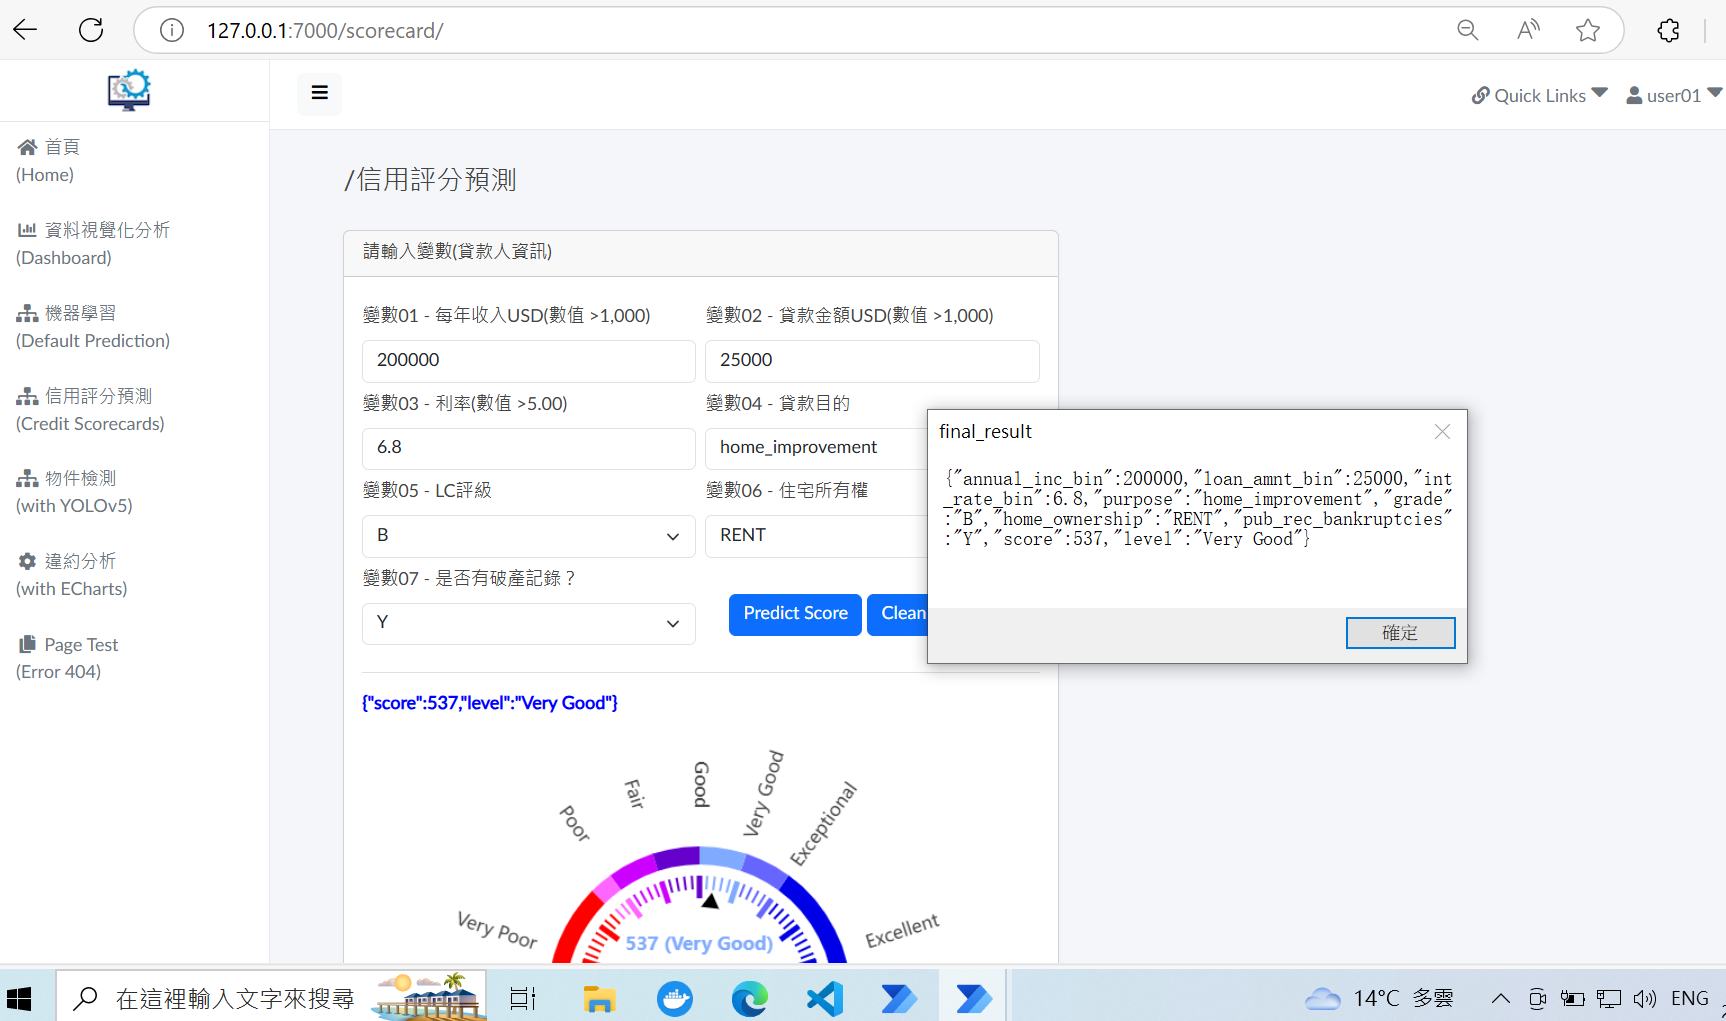
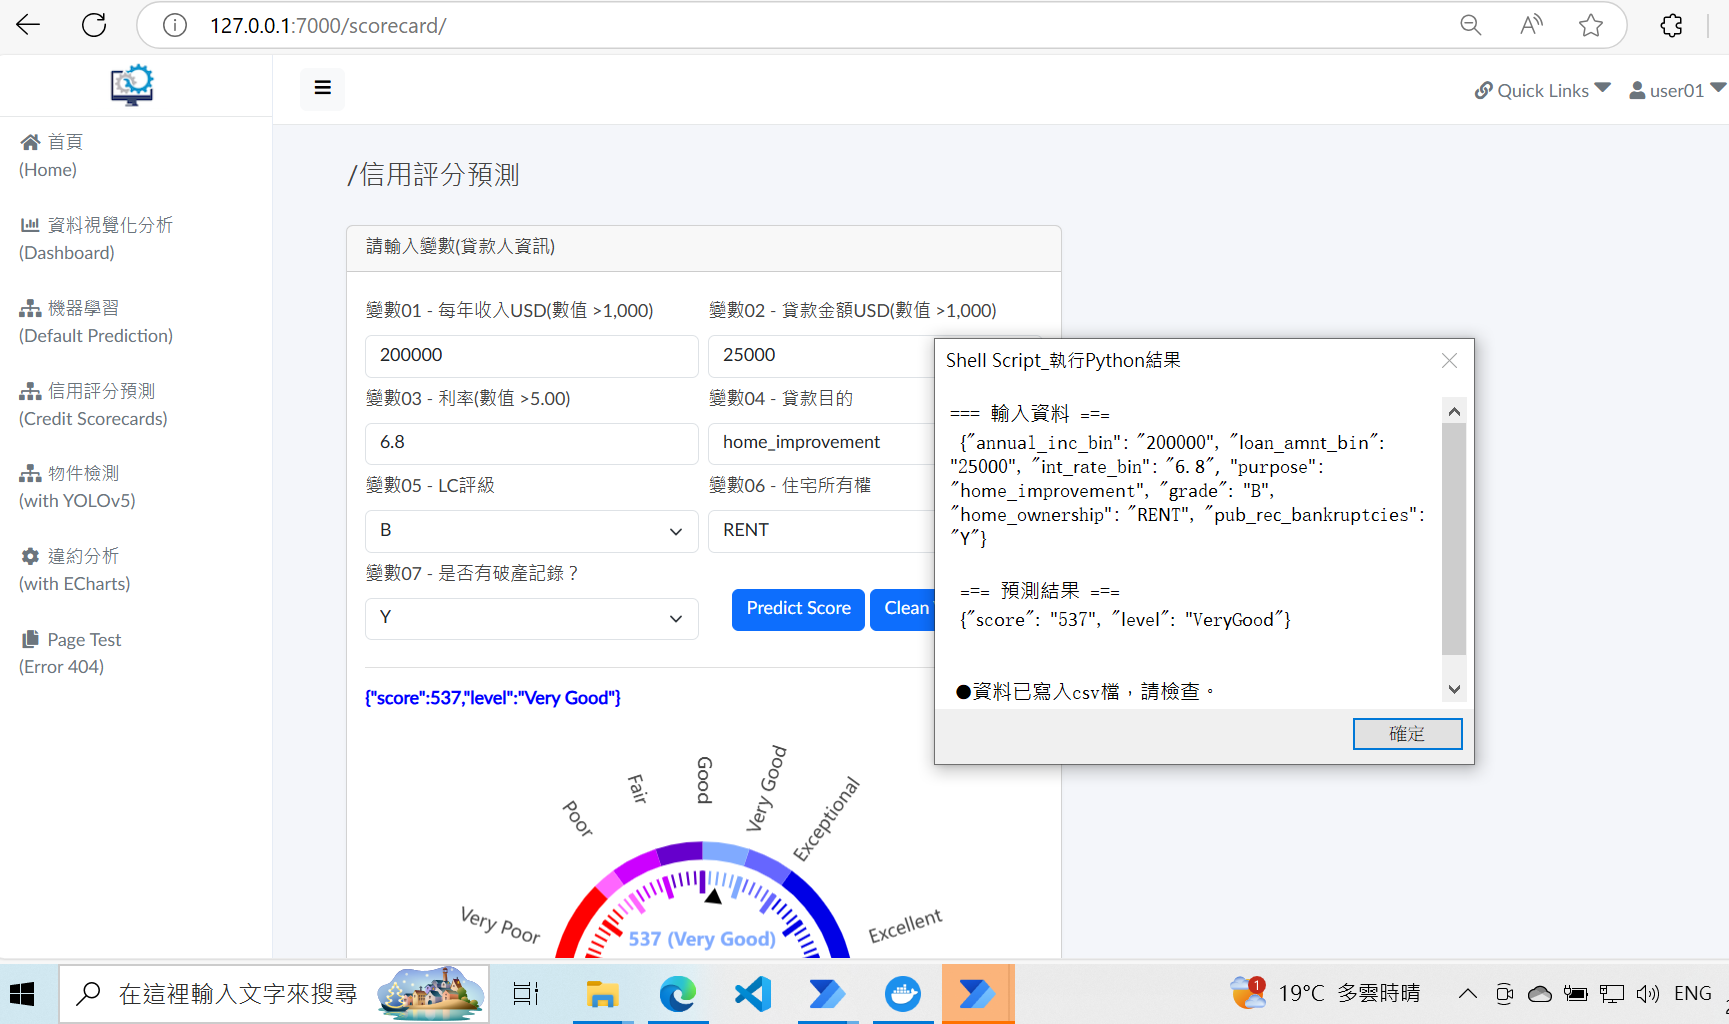
New add png-file_01

diff --git a/demo_pad_tst_01.js b/demo_pad_tst_01.js
@@ -1,5 +1,5 @@
-// A simple function to get data from web page
-function pda_js_tst(){  
+// Get data from web page
+function pda_js_tst(){   
 
     // Get data from Form
     var v0 = document.getElementById("annual_inc_bin").value;

diff --git a/demo_pad_tst_01.py b/demo_pad_tst_01.py
@@ -1,0 +1,47 @@
+import json
+import pandas as pd
+import sys 
+
+
+# Transfer strinng to json strinng
+def processing_str(only_str):    
+    the_str = only_str[1:-1]
+    the_str = the_str.replace(" ","")
+    list_items = the_str.split(",")
+    to_str = ""
+    for item in list_items:
+        kv = item.split(":")
+        to_str = to_str + '"' + kv[0]+'":"'+kv[1]+'",'
+    to_str = "{" + to_str[:-1] + "}"      
+    return to_str
+
+
+# Complete the string for Message Box
+def msg_by_python(inputs):         
+    # Transfer string into dictionary    
+    pre_outputs = json.loads(inputs)        
+    # Process the string for Message Box
+    demo_inputs = pre_outputs.copy()
+    demo_outputs = {"score": demo_inputs['score'], "level": demo_inputs['level']}    
+    flag = int(demo_inputs['score'])
+    del demo_inputs['score'] 
+    del demo_inputs['level']      
+    # Write to CSV file    
+    if flag > 400:
+        df = pd.DataFrame.from_dict([pre_outputs])    
+        df.to_csv("D:\\tst_power_automate\\pad-tst-01\\predict_report.csv", index=False)
+        inputs_str="=== 輸入資料 === \n {}\n\n === 預測結果 === \n {}\n\n\n ●資料已寫入csv檔，請檢查。"    
+    else:
+        inputs_str="=== 輸入資料 === \n {}\n\n === 預測結果 === \n {}"      
+    msg = inputs_str.format(json.dumps(demo_inputs), json.dumps(demo_outputs))             
+    return msg
+
+
+
+if __name__ == "__main__":
+    ipts = sys.argv[1:]
+    ipts = ''.join(ipts)
+    ipts = processing_str(ipts)
+    msg = msg_by_python(ipts)
+    print(msg)
+

diff --git a/README.md b/README.md
@@ -1,30 +1,64 @@
 # **power_automate_demo_01**
 
-## **RPA: Displaying an example of integrating JavaScript with Power Automate for Web Automation**
+## **RPA: Displaying an example of integrating JavaScript and Python with Power Automate for Web Automation**
 
 ### **Ⅰ. 目的** 
-研調 RPA (Robotic Process Automation)，實作Power Automate Desktop來操作網頁，並在其流程中使用JavaScript擷取內容。<br>
+研調 機器人流程自動化 (Robotic Process Automation, RPA)，實作Power Automate來操作「應用程式」及「網頁」，並在其流程中使用JavaScript擷取內容再由Python處理資料。<br><br>
+
 
 ### **Ⅱ. 主要工具**
-Power Automate Desktop、JavaScript
+Power Automate Desktop、JavaScript、Python<br><br>
 
 ### **Ⅲ. 說明**
 
-● 流程內容：<br>
-在Power Automate Desktop開啓一個「流程」，建立各項「動作」。<br>
-首先，開啟瀏覽器(Microsoft Edge)，到一個網站( 專案django_demo_01 [詳見](<https://github.com/qinglian1105>)) ，接著輸入帳密登入，於左側side menu點選某一選單，在Form填入資料按鍵執行，由執行JavaScript程式擷取輸入資料及預測結果，返回給「顯示訊息」顯示，最後按「確定」後關閉網頁。<br> 
+__1.流程架構__<br>
 
-● 頁面展示：<br>
-【 Power Automate Desktop - 流程頁面 】<br>
-流程由26個「動作」組成，主要有設定變數、瀏覽器自動化項目、JavaScript函數、顯示訊息…等，如下圖所示。<br>
+在Power Automate Desktop新增一個「流程」，建立5個「子流程」，並在其中產生各項「動作」，如下圖所示。<br>
+
 ![avatar](./README_pics/pic_process.png)<br><br>
 
-【 流程執行頁面 - 最後顯示訊息 】<br>
-Power Automate執行至此頁面時(選單-信用評分預測)，填完Form的 7 個變數資料，按「Predict Score」鍵後，將於下方以藍色文字及儀表盤呈現結果(分數、評級)，Power Automate安排 執行JavaScript函數(詳見程式檔 demo_pda_tst_01.js)擷取輸入資料及藍色文字存成變數，再返回予「顯示訊息」顯示內容如下圖所示，按「確定」後關閉網頁以完成整個Process自動化過程。<br>
+
+
+
+__2.各子流程功用__<br>
+
+● 子流程「Main」<br>
+為整個流程的執行步驟，即其他4個子流程依序執行。<br>
+
+![avatar](./README_pics/pic_subprocess_main.png)<br><br>
+
+
+● 子流程「01_dockerStartServices」<br>
+開啟應用程式「Docker Desktop」，啟動相關服務，如：前端網頁、後端API及資料庫…等( 詳見 [專案django_demo_01](<https://github.com/qinglian1105>) )。<br>
+
+![avatar](./README_pics/pic_subprocess_01.png)<br><br>
+
+● 子流程「02_globalVariables」<br>
+為設定所需變數，主要為輸入網頁之資料。<br>
+
+![avatar](./README_pics/pic_subprocess_02.png)<br><br>
+
+
+● 子流程「03_operationOnWebsite」<br>
+操作瀏覽器到目標網頁後，填寫Formi送出，返回預測結果，由JavaScript程式 (詳見 demo_pad_tst_01.js )擷取輸入資料及預測結果。<br> 
+
+![avatar](./README_pics/pic_subprocess_03.png)<br><br>
+
+● 子流程「04_runPythonCmd」<br>
+使用「動作」的「執行 PowerShell指令碼」來執行Python程式 (詳見 demo_pad_tst_01.py)，將JavaScript程式執行結果，作編輯予「顯示訊息」呈現，並儲存成CSV檔 (詳見 predict_report.csv)，最後關閉瀏覽器。<br>
+
+![avatar](./README_pics/pic_subprocess_04.png)<br><br>
+
+
+
+__3.執行結果 - 最後顯示訊息畫面__<br>
+
+Power Automate開啟瀏覽器(Microsoft Edge)，到網站( 127.0.0.1:7000/login，如上述 [專案django_demo_01](<https://github.com/qinglian1105>) ) ，接著輸入帳密登入進入首頁後，於左側side menu點選「信用評分預測(Credit Scorecards)」選單，即進入目標頁面，填完Form的 7 個變數資料，點擊按鍵「Predict Score」後，將於下方以藍色文字及儀表盤呈現預測結果(分數、評級)，由JavaScript程式擷取輸入資料及預測結果，再由Python程式編輯及寫入CSV檔，返回予「顯示訊息」呈現，按「確定」後關閉網頁，以完成整個流程自動化過程。<br>
+
 ![avatar](./README_pics/pic_result.png)<br><br>
 
-__以上，一個簡單Web Automation例子展現Power Automate與JavaScriptn整合。__<br><br>
-
+__以上，一個Web Automation的例子展現Power Automate、JavaScript、Python整合。__
+<br><br><br>
 
 ---
 
